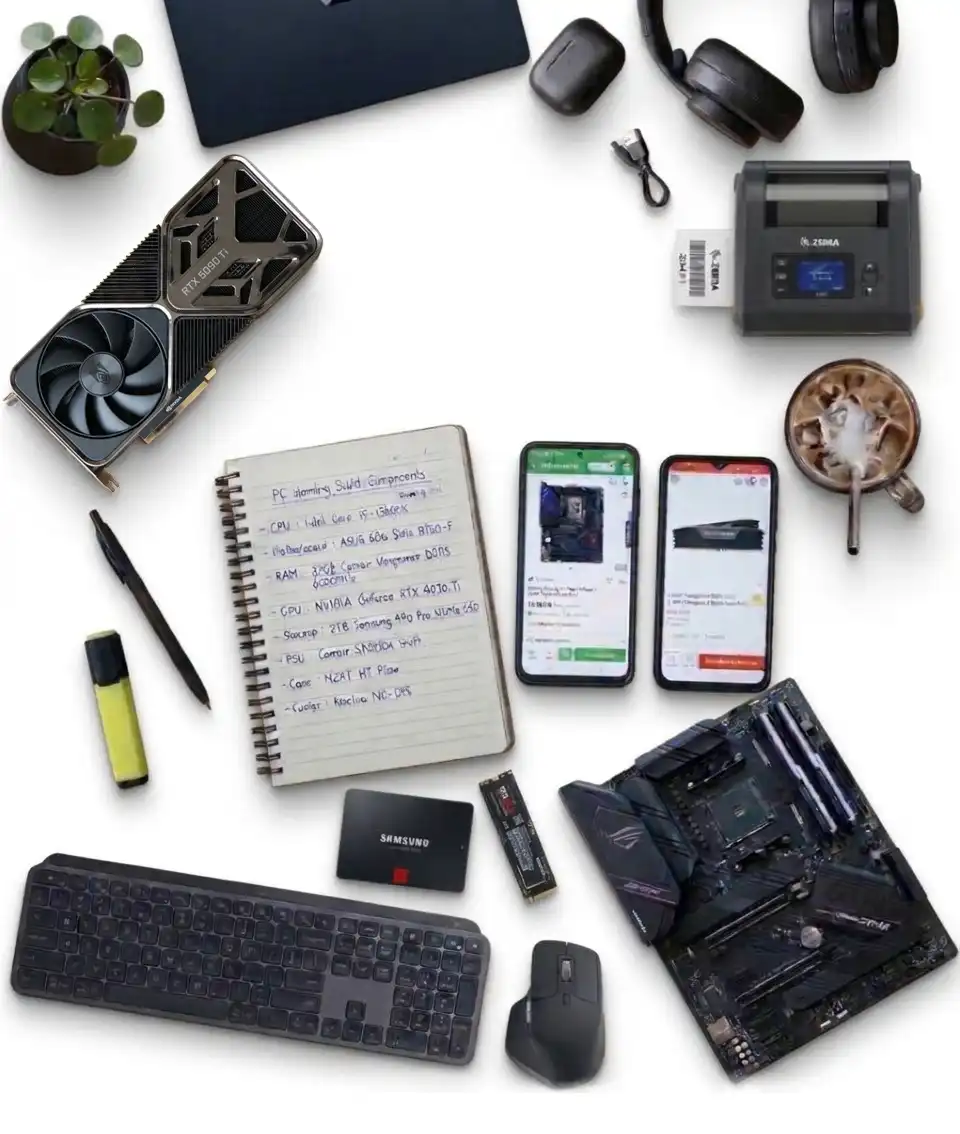
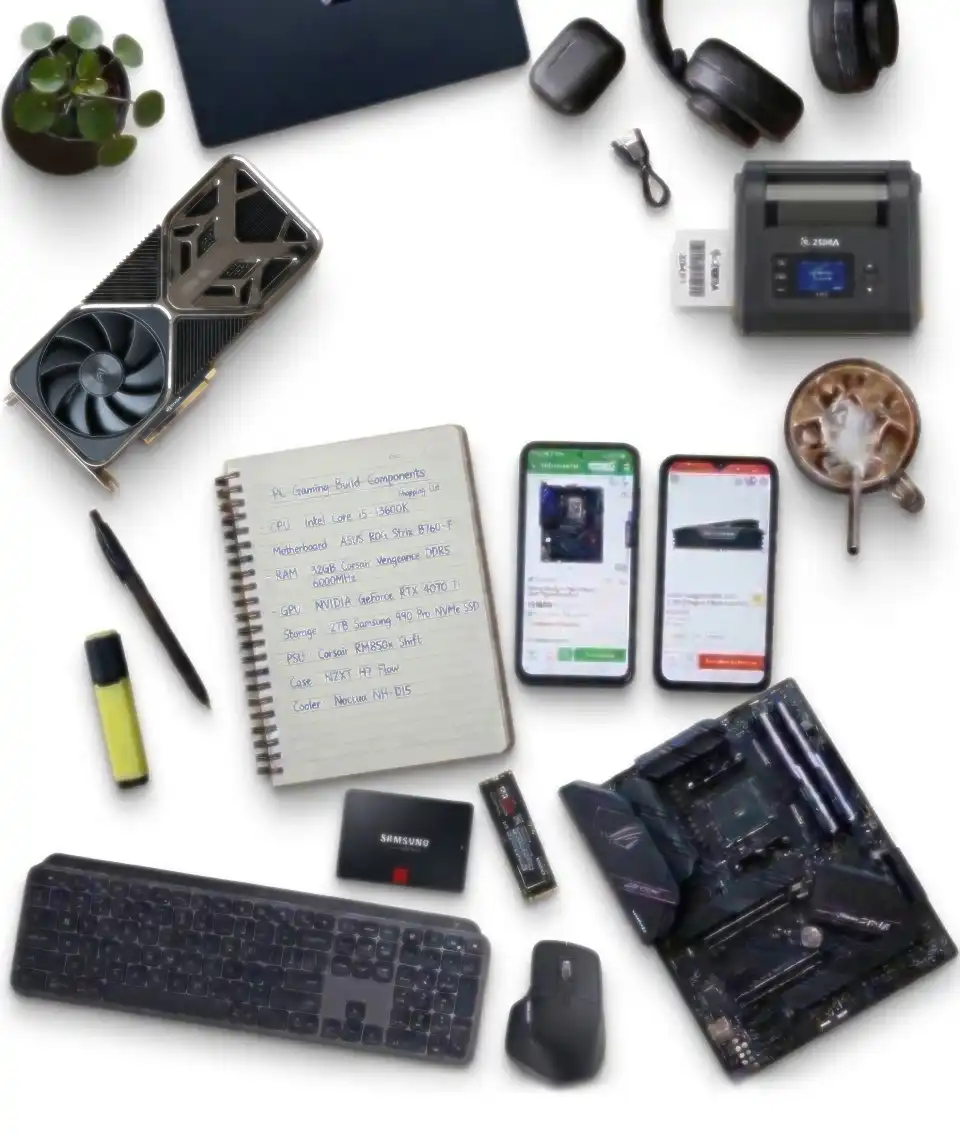
4.3 seller location on product page

diff --git a/views/public/products/show.php b/views/public/products/show.php
@@ -214,6 +214,11 @@ if ($inWishlistValue) {
                                         $sellerValue = 'General';
                                     }
 
+                                    $sellerLocationText = '';
+                                    if (isset($offer['vendor_location_name']) && $offer['vendor_location_name'] !== null && $offer['vendor_location_name'] !== '') {
+                                        $sellerLocationText = htmlspecialchars((string) $offer['vendor_location_name'], ENT_QUOTES | ENT_HTML5, 'UTF-8');
+                                    }
+
                                     $sellerTitleValue = '';
                                     if (isset($offer['seller_title']) && $offer['seller_title'] !== null) {
                                         $sellerTitleValue = (string) $offer['seller_title'];
@@ -250,7 +255,12 @@ if ($inWishlistValue) {
                                     ?>
                                     <tr>
                                         <td><?= htmlspecialchars($marketplaceValue) ?></td>
-                                        <td><?= htmlspecialchars($sellerValue) ?></td>
+                                        <td>
+                                            <?= htmlspecialchars($sellerValue) ?>
+                                            <?php if ($sellerLocationText !== ''): ?>
+                                                <div class="text-muted small"><i class="bi bi-geo-alt"></i> <?= $sellerLocationText ?></div>
+                                            <?php endif; ?>
+                                        </td>
                                         <td>
                                             <div class="offer-title"><?= htmlspecialchars($sellerTitleValue) ?></div>
                                         </td>
@@ -327,6 +337,11 @@ if ($inWishlistValue) {
                                                 $sellerValue = 'General';
                                             }
 
+                                            $sellerLocationText = '';
+                                            if (isset($offer['vendor_location_name']) && $offer['vendor_location_name'] !== null && $offer['vendor_location_name'] !== '') {
+                                                $sellerLocationText = htmlspecialchars((string) $offer['vendor_location_name'], ENT_QUOTES | ENT_HTML5, 'UTF-8');
+                                            }
+
                                             $sellerTitleValue = '';
                                             if (isset($offer['seller_title']) && $offer['seller_title'] !== null) {
                                                 $sellerTitleValue = (string) $offer['seller_title'];
@@ -363,7 +378,12 @@ if ($inWishlistValue) {
                                             ?>
                                             <tr>
                                                 <td><?= htmlspecialchars($marketplaceValue) ?></td>
-                                                <td><?= htmlspecialchars($sellerValue) ?></td>
+                                                <td>
+                                                    <?= htmlspecialchars($sellerValue) ?>
+                                                    <?php if ($sellerLocationText !== ''): ?>
+                                                        <div class="text-muted small"><i class="bi bi-geo-alt"></i> <?= $sellerLocationText ?></div>
+                                                    <?php endif; ?>
+                                                </td>
                                                 <td>
                                                     <div class="offer-title"><?= htmlspecialchars($sellerTitleValue) ?></div>
                                                 </td>

diff --git a/app/Models/OfferModel.php b/app/Models/OfferModel.php
@@ -39,10 +39,11 @@ class OfferModel extends Model
     public function findPublicByProductId(int $productId): array
     {
         $activeCondition = self::activeCondition();
-        $sql = "SELECT o.*, s.name AS store_name, v.name AS vendor_name, v.rating AS vendor_rating, v.store_rating AS vendor_store_rating
+        $sql = "SELECT o.*, s.name AS store_name, v.name AS vendor_name, v.rating AS vendor_rating, v.store_rating AS vendor_store_rating, l.name AS vendor_location_name
                 FROM {$this->table} o
                 LEFT JOIN stores s ON s.id = o.store_id
                 LEFT JOIN vendors v ON v.id = o.vendor_id
+                LEFT JOIN locations l ON l.id = v.location_id
                 WHERE o.product_id = ? AND " . $activeCondition . "
                 ORDER BY o.price_idr ASC";
 

diff --git a/docs/reports/4.3-product-page-location.md b/docs/reports/4.3-product-page-location.md
@@ -1,0 +1,110 @@
+# TASK: 4.3 Product page: show the seller's location under the seller name
+
+```
+TASK: 4.3 Product page: show the seller's location under the seller name
+FILES CREATED: docs/reports/4.3-product-page-location.md (report file, only extra file)
+FILES CHANGED:
+  - app/Models/OfferModel.php — findPublicByProductId() only: SELECT gained l.name AS vendor_location_name and a LEFT JOIN locations l ON l.id = v.location_id after the vendors join; existing columns, join order, activeCondition() and ORDER BY unchanged.
+  - views/public/products/show.php — both Compare Prices table markups now compute an escaped $sellerLocationText in the PHP block and, when non-empty, print a muted small line with bi bi-geo-alt under the seller name; seller name text itself unchanged.
+CHECKS:
+  $ php bin/check_rules.php app/Models/OfferModel.php views/public/products/show.php
+  OK: no ternary or null-coalescing syntax found.
+
+  $ php -l app/Models/OfferModel.php
+  No syntax errors detected in app/Models/OfferModel.php
+
+  $ php -l views/public/products/show.php
+  No syntax errors detected in views/public/products/show.php
+
+  (PHP invoked via C:\xampp\php\php.exe; "php" is not on PATH.)
+  git diff pasted below. No SQL was run.
+MANUAL TEST STEPS:
+  1. Give vendor 13 location Jakarta Barat; open a product with that vendor's offer: "Jakarta Barat" appears under the seller name in the first price table.
+  2. A product whose sellers have no location: tables look exactly as before.
+  3. Resize to phone width: if the second (collapsed "Show all offers") markup is shown there, the location appears there too.
+  4. Offers, prices, "Lowest Price" badge and Buy buttons are unchanged.
+DEVIATIONS: none.
+NOTICED:
+  - Callers of OfferModel::findPublicByProductId(): only app/Controllers/PublicProductController.php:103 (PublicProductController::show()). No other caller found.
+  - Checked public/assets/css/frontend.css: it has no custom small/muted or seller-location class (text-muted, .small, seller-location, offer-meta all absent), so Bootstrap's existing text-muted small classes were used, as permitted.
+  - No new label text was introduced; the only visible addition is the location value with the icon. Seller names remain plain text (no link yet).
+QUESTIONS: none
+```
+
+## git diff
+
+```diff
+diff --git a/app/Models/OfferModel.php b/app/Models/OfferModel.php
+index ced2896..969c5e4 100644
+--- a/app/Models/OfferModel.php
++++ b/app/Models/OfferModel.php
+@@ -39,10 +39,11 @@ class OfferModel extends Model
+     public function findPublicByProductId(int $productId): array
+     {
+         $activeCondition = self::activeCondition();
+-        $sql = "SELECT o.*, s.name AS store_name, v.name AS vendor_name, v.rating AS vendor_rating, v.store_rating AS vendor_store_rating
++        $sql = "SELECT o.*, s.name AS store_name, v.name AS vendor_name, v.rating AS vendor_rating, v.store_rating AS vendor_store_rating, l.name AS vendor_location_name
+                 FROM {$this->table} o
+                 LEFT JOIN stores s ON s.id = o.store_id
+                 LEFT JOIN vendors v ON v.id = o.vendor_id
++                LEFT JOIN locations l ON l.id = v.location_id
+                 WHERE o.product_id = ? AND " . $activeCondition . "
+                 ORDER BY o.price_idr ASC";
+ 
+diff --git a/views/public/products/show.php b/views/public/products/show.php
+index 8b61c47..2206931 100644
+--- a/views/public/products/show.php
++++ b/views/public/products/show.php
+@@ -214,6 +214,11 @@ if ($inWishlistValue) {
+                                         $sellerValue = 'General';
+                                     }
+ 
++                                    $sellerLocationText = '';
++                                    if (isset($offer['vendor_location_name']) && $offer['vendor_location_name'] !== null && $offer['vendor_location_name'] !== '') {
++                                        $sellerLocationText = htmlspecialchars((string) $offer['vendor_location_name'], ENT_QUOTES | ENT_HTML5, 'UTF-8');
++                                    }
++
+                                     $sellerTitleValue = '';
+                                     if (isset($offer['seller_title']) && $offer['seller_title'] !== null) {
+                                         $sellerTitleValue = (string) $offer['seller_title'];
+@@ -250,7 +255,12 @@ if ($inWishlistValue) {
+                                     ?>
+                                     <tr>
+                                         <td><?= htmlspecialchars($marketplaceValue) ?></td>
+-                                        <td><?= htmlspecialchars($sellerValue) ?></td>
++                                        <td>
++                                            <?= htmlspecialchars($sellerValue) ?>
++                                            <?php if ($sellerLocationText !== ''): ?>
++                                                <div class="text-muted small"><i class="bi bi-geo-alt"></i> <?= $sellerLocationText ?></div>
++                                            <?php endif; ?>
++                                        </td>
+                                         <td>
+                                             <div class="offer-title"><?= htmlspecialchars($sellerTitleValue) ?></div>
+                                         </td>
+@@ -327,6 +337,11 @@ if ($inWishlistValue) {
+                                                 $sellerValue = 'General';
+                                             }
+ 
++                                            $sellerLocationText = '';
++                                            if (isset($offer['vendor_location_name']) && $offer['vendor_location_name'] !== null && $offer['vendor_location_name'] !== '') {
++                                                $sellerLocationText = htmlspecialchars((string) $offer['vendor_location_name'], ENT_QUOTES | ENT_HTML5, 'UTF-8');
++                                            }
++
+                                             $sellerTitleValue = '';
+                                             if (isset($offer['seller_title']) && $offer['seller_title'] !== null) {
+                                                 $sellerTitleValue = (string) $offer['seller_title'];
+@@ -363,7 +378,12 @@ if ($inWishlistValue) {
+                                             ?>
+                                             <tr>
+                                                 <td><?= htmlspecialchars($marketplaceValue) ?></td>
+-                                                <td><?= htmlspecialchars($sellerValue) ?></td>
++                                                <td>
++                                                    <?= htmlspecialchars($sellerValue) ?>
++                                                    <?php if ($sellerLocationText !== ''): ?>
++                                                        <div class="text-muted small"><i class="bi bi-geo-alt"></i> <?= $sellerLocationText ?></div>
++                                                    <?php endif; ?>
++                                                </td>
+                                                 <td>
+                                                     <div class="offer-title"><?= htmlspecialchars($sellerTitleValue) ?></div>
+                                                 </td>
+```
